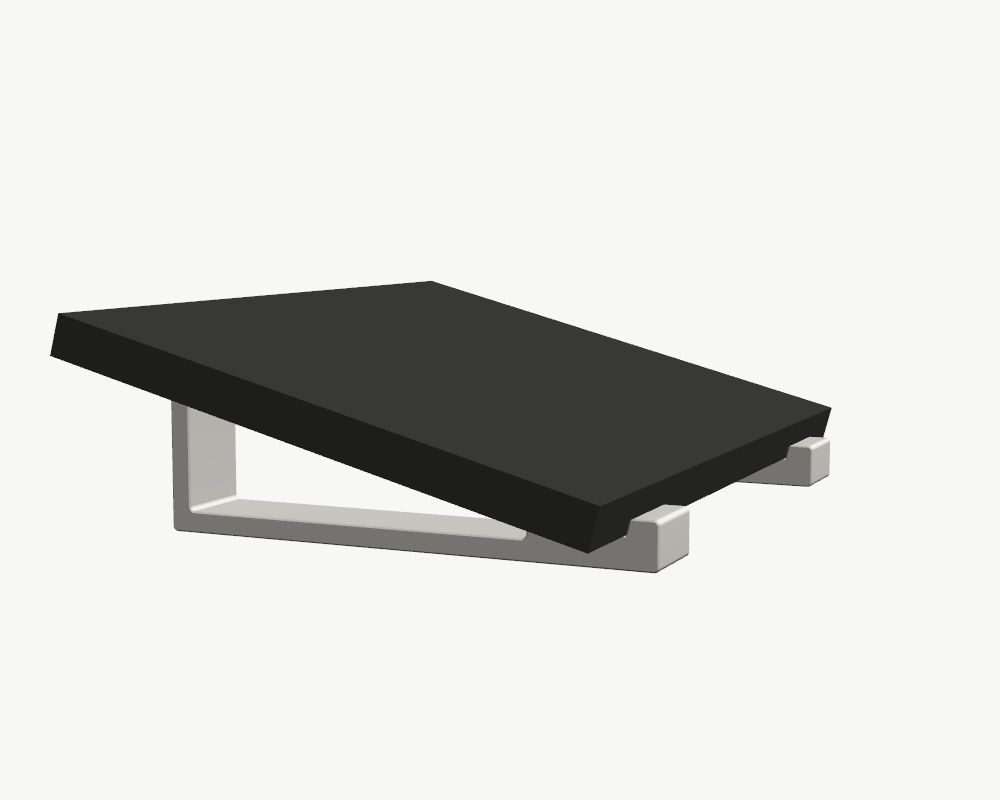
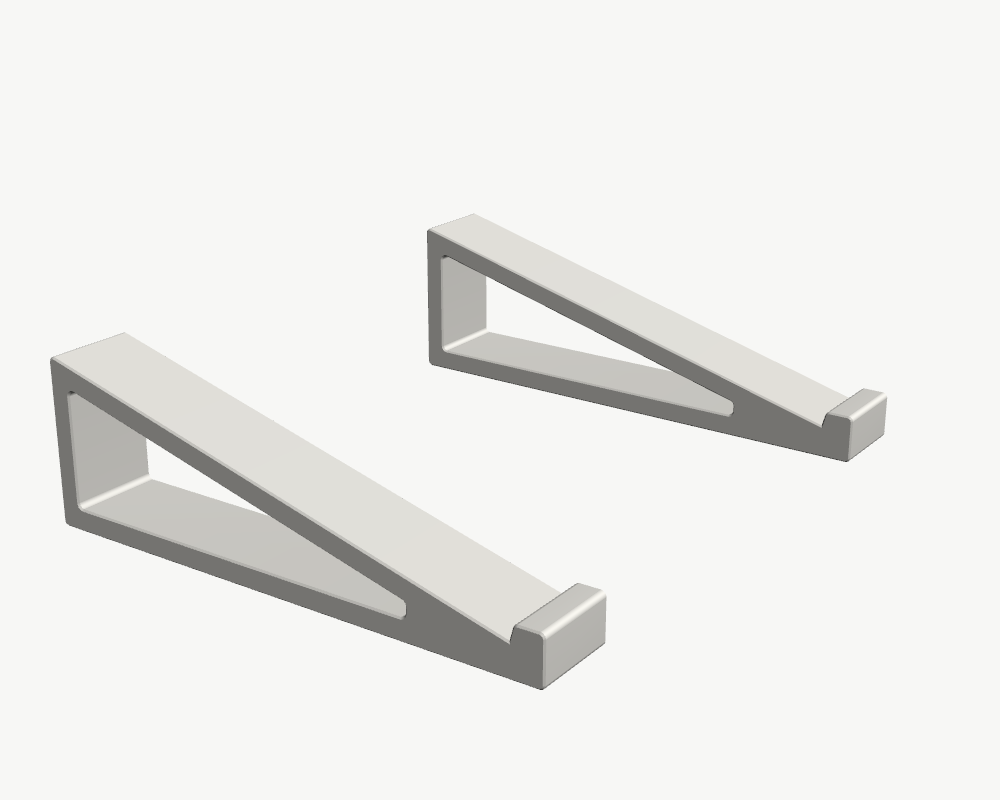
047: build the example laptop without returning it as a part
As a ref part it made size_mm the laptop's size. It is now built by
laptop() and checked against the stands in the review.

Changed region(s): [[0.031, 0.25, 0.899, 0.875]]

diff --git a/models/047_laptop_stand_pair/design.py b/models/047_laptop_stand_pair/design.py
@@ -11,7 +11,7 @@ import cadquery as cq
 
 sys.path.insert(0, os.environ.get("FDM_SCRIPTS", os.path.join(
     os.path.dirname(os.path.abspath(__file__)), "..", "..", "skills", "fdm-minimal-design", "scripts")))
-from fdm_samples import (Part, SAMPLES, CH, CH_BED, OFF, DARK,  # noqa: E402
+from fdm_samples import (Part, SAMPLES, CH, CH_BED, OFF,  # noqa: E402
                          box, rx, rz, copies)
 
 DEP, HB, WID = 192.0, 60.0, 32.0         # depth, height at the back, width (the print height): 4 members
@@ -40,20 +40,20 @@ def stand_profile():
     return p.faces(">Z").chamfer(CH)
 
 
+def laptop():
+    """The example laptop lying on the stands, its front bottom edge on the lip roots. It is larger than the stands, so it
+    is not returned as a ref part (size_mm would become its size); the review checks it against the stands."""
+    import math
+    lw, ld, lt = LAPTOP
+    lap = box(-lw / 2, lw / 2, 0, ld, 0, lt)
+    return rx(lap, math.degrees(math.atan(K))).translate((0, YF - DEP / 2, ZF))
+
+
 def laptop_stand_pair():
     p = stand_profile()                                      # print frame: profile on the bed, x = depth, y = height
     disp = lambda wp, x0: rz(rx(wp, 90), 90).translate((x0 - WID / 2, -DEP / 2, 0))   # noqa: E731
     stands = copies([disp(p, -X_STAND), disp(p, X_STAND)])
-
-    import math
-    ang = math.degrees(math.atan(K))
-    lw, ld, lt = LAPTOP
-    lap = box(-lw / 2, lw / 2, 0, ld, 0, lt)                 # front bottom edge on the lip root, lying on the slope
-    lap = rx(lap, ang).translate((0, YF - DEP / 2, ZF))
-    return {
-        "stand": Part(stands, p, OFF, qty=2),
-        "laptop_ref": Part(lap, None, DARK, ref=True),
-    }
+    return {"stand": Part(stands, p, OFF, qty=2)}
 
 
 SAMPLES["047_laptop_stand_pair"] = laptop_stand_pair

diff --git a/models/047_laptop_stand_pair/rationale.md b/models/047_laptop_stand_pair/rationale.md
@@ -24,7 +24,6 @@ its front edge sits against a 6 lip square to the slope. The stands print lying 
 | Part | Orientation | Colour |
 |---|---|---|
 | stand × 2 | On its side (the profile on the bed) | Off-white |
-| laptop_ref (example laptop 300 × 215 × 16) | — | — |
 
 ## Review
 
@@ -32,7 +31,7 @@ its front edge sits against a 6 lip square to the slope. The stands print lying 
 |---|---|---|---|
 | stand | The lip's root was filleted R2 with the other corners: the fillet lifted the laptop's square front edge out of the corner (an interference with the laptop) | Defect | The root stays square; only the convex corners are rounded |
 | stand | 24 wide, a stand tipped sideways at about 0.33 × its load, close to the friction (about 0.3) that a sideways push on the laptop passes on | Defect | 32 wide: about 0.44 |
-| preview | From above, the laptop hid both stands | Defect | The view looks along the side, under the laptop |
+| design | The example laptop was returned as a ref part, so `size_mm` and the catalogue showed the laptop's size (300 × 220), not the stands' | Defect | `laptop()` builds it without returning it; the review checked it against the stands (below) |
 
 Use cases:
 - **Set up:** stand the two stands on the desk, slope rising toward the back, about two thirds of the laptop's width apart; lay the
@@ -42,7 +41,9 @@ Use cases:
 - **Carry:** the two stands lie side by side, 192 × 60 × 64.
 - **Print:** each on its side; no supports, no bridges (the window is a hole through the part lying flat).
 
-verify.py: all parts valid and watertight, one solid each, no interference, fit a 256 bed.
+verify.py: all parts valid and watertight, one solid each, no interference, fit a 256 bed. The example laptop from `laptop()`
+(300 × 215 × 16) against the two stands with `verify.motion_check`: no overlap at rest, lifting 0 / 5 / 30 and sliding up the
+slope 0 / 20 / 100 free, 0.3 down the slope 97 mm³ (the lips stop it).
 
 Compared with well-known products (SK 4, T 3, ET 66, SK 61, L 2): radios, a calculator and a loudspeaker; none is a stand. Laptop stands
 of two wedges are a common kind of object; no product was used as a model.
